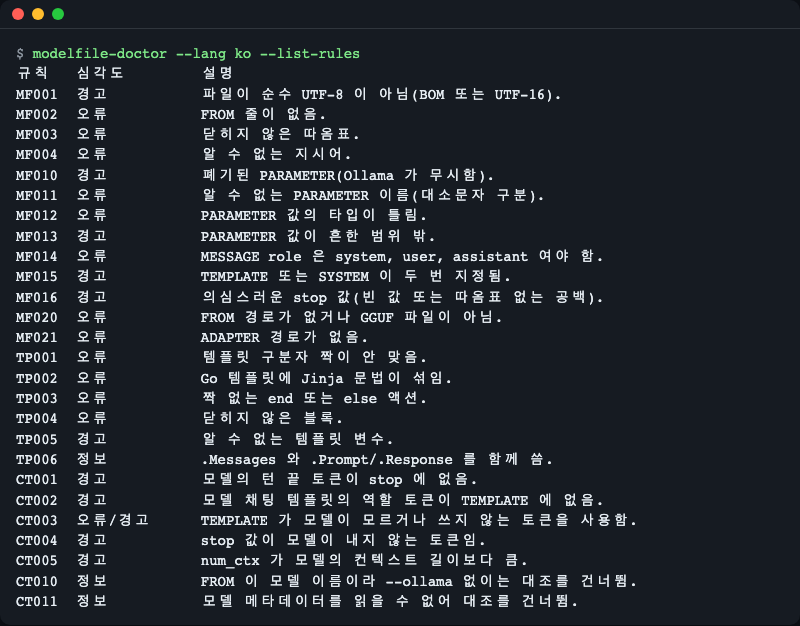
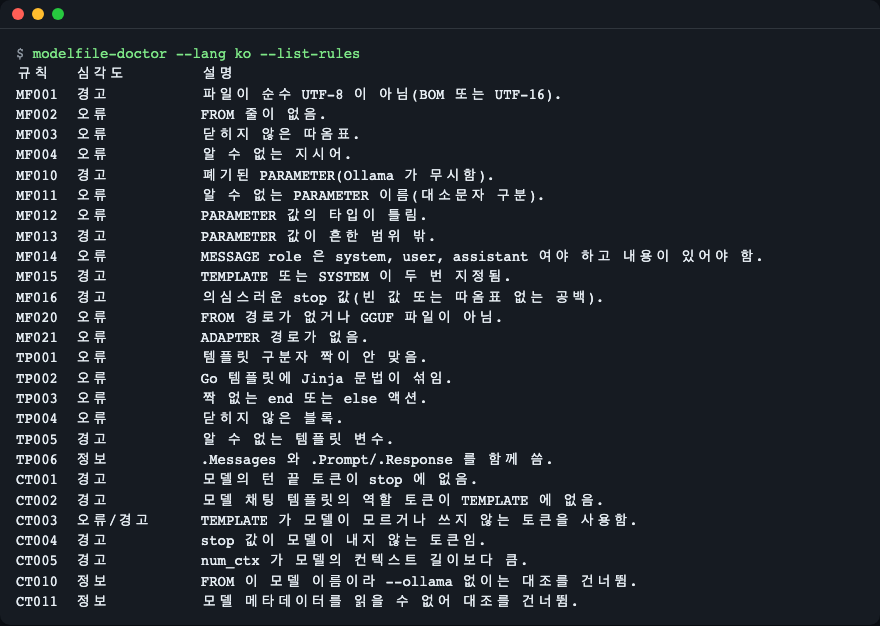
docs(readme): update MF014 rule text and screenshots
Refresh the list-rules screenshots and describe the empty MESSAGE check.

Changed region(s): [[0.0, 0.0607, 0.875, 0.9712], [0.0, 0.0, 0.0938, 0.0304]]

diff --git a/README.ko.md b/README.ko.md
@@ -35,7 +35,7 @@ uv sync
 uv run modelfile-doctor --version
 ```
 ```text
-modelfile-doctor 0.3.2
+modelfile-doctor 0.3.3
 ```
 
 명령을 PATH 에 두려면 `uv tool install git+https://github.com/LeeGyeongPil/modelfile-doctor` 를 쓰세요. 런타임 의존성은 없습니다. `gguf`·`numpy` 는 테스트에서만 씁니다.
@@ -172,7 +172,7 @@ uv run modelfile-doctor --format json --select CT ./demo-files/Modelfile.bad
 ```yaml
 repos:
   - repo: https://github.com/LeeGyeongPil/modelfile-doctor
-    rev: v0.3.2
+    rev: v0.3.3
     hooks:
       - id: modelfile-doctor
 ```
@@ -252,7 +252,7 @@ flowchart LR
 | `MF002` / `MF004` | 오류 | `FROM` 줄이 없음, 또는 `SYSTM` 같은 알 수 없는 지시어 |
 | `MF011` / `MF012` | 오류 | 알 수 없는 `PARAMETER` 이름(`TEMPERATURE`), 또는 잘못된 값 타입(`num_ctx 4k`) |
 | `MF010` / `MF013` | 경고 | 폐기된 파라미터(`mirostat`), 또는 일반 범위를 벗어난 값(`temperature 5`) |
-| `MF014` | 오류 | `MESSAGE` role 이 `system`, `user`, `assistant` 가 아님 |
+| `MF014` | 오류 | `MESSAGE` role 이 `system`, `user`, `assistant` 가 아니거나 내용이 없음 |
 | `MF020` | 오류 | `FROM` 경로가 없거나 GGUF 파일이 아님 |
 | `MF021` | 오류 | `ADAPTER` 경로가 없음 (끄려면 `--ignore MF021`) |
 | `TP001`~`TP004` | 오류 | 짝이 안 맞는 `{{ }}`, Go 템플릿 안의 Jinja 문법, 불필요한 `end`/`else`, 닫히지 않은 블록 |

diff --git a/README.md b/README.md
@@ -35,7 +35,7 @@ uv sync
 uv run modelfile-doctor --version
 ```
 ```text
-modelfile-doctor 0.3.2
+modelfile-doctor 0.3.3
 ```
 
 To put the command on your PATH: `uv tool install git+https://github.com/LeeGyeongPil/modelfile-doctor`. There are no runtime dependencies; `gguf` and `numpy` are only used by the tests.
@@ -172,7 +172,7 @@ Use it as a [pre-commit](https://pre-commit.com) hook; in `.pre-commit-config.ya
 ```yaml
 repos:
   - repo: https://github.com/LeeGyeongPil/modelfile-doctor
-    rev: v0.3.2
+    rev: v0.3.3
     hooks:
       - id: modelfile-doctor
 ```
@@ -254,7 +254,7 @@ flowchart LR
 | `MF002` / `MF004` | error | No `FROM` line, or an unknown instruction such as `SYSTM` |
 | `MF011` / `MF012` | error | Unknown `PARAMETER` name (`TEMPERATURE`), or a value of the wrong type (`num_ctx 4k`) |
 | `MF010` / `MF013` | warning | Deprecated parameter (`mirostat`), or a value outside the usual range (`temperature 5`) |
-| `MF014` | error | `MESSAGE` role is not `system`, `user` or `assistant` |
+| `MF014` | error | `MESSAGE` role is not `system`, `user` or `assistant`, or the message has no content |
 | `MF020` | error | `FROM` path does not exist or is not a GGUF file |
 | `MF021` | error | `ADAPTER` path does not exist (skip with `--ignore MF021`) |
 | `TP001` to `TP004` | error | Unbalanced `{{ }}`, Jinja syntax in a Go template, stray `end`/`else`, a block that is never closed |

diff --git a/CHANGELOG.md b/CHANGELOG.md
@@ -3,6 +3,13 @@
 All notable changes to this project are documented here.
 The format follows [Keep a Changelog](https://keepachangelog.com/en/1.1.0/) and the project uses [Semantic Versioning](https://semver.org/).
 
+## [Unreleased]
+
+## [0.3.3] - 2026-11-23
+
+### Fixed
+- `MF014` now also reports a `MESSAGE` that has a role but no content (e.g. `MESSAGE system`), which `ollama create` rejects.
+
 ## [0.3.2] - 2026-11-23
 
 ### Fixed
